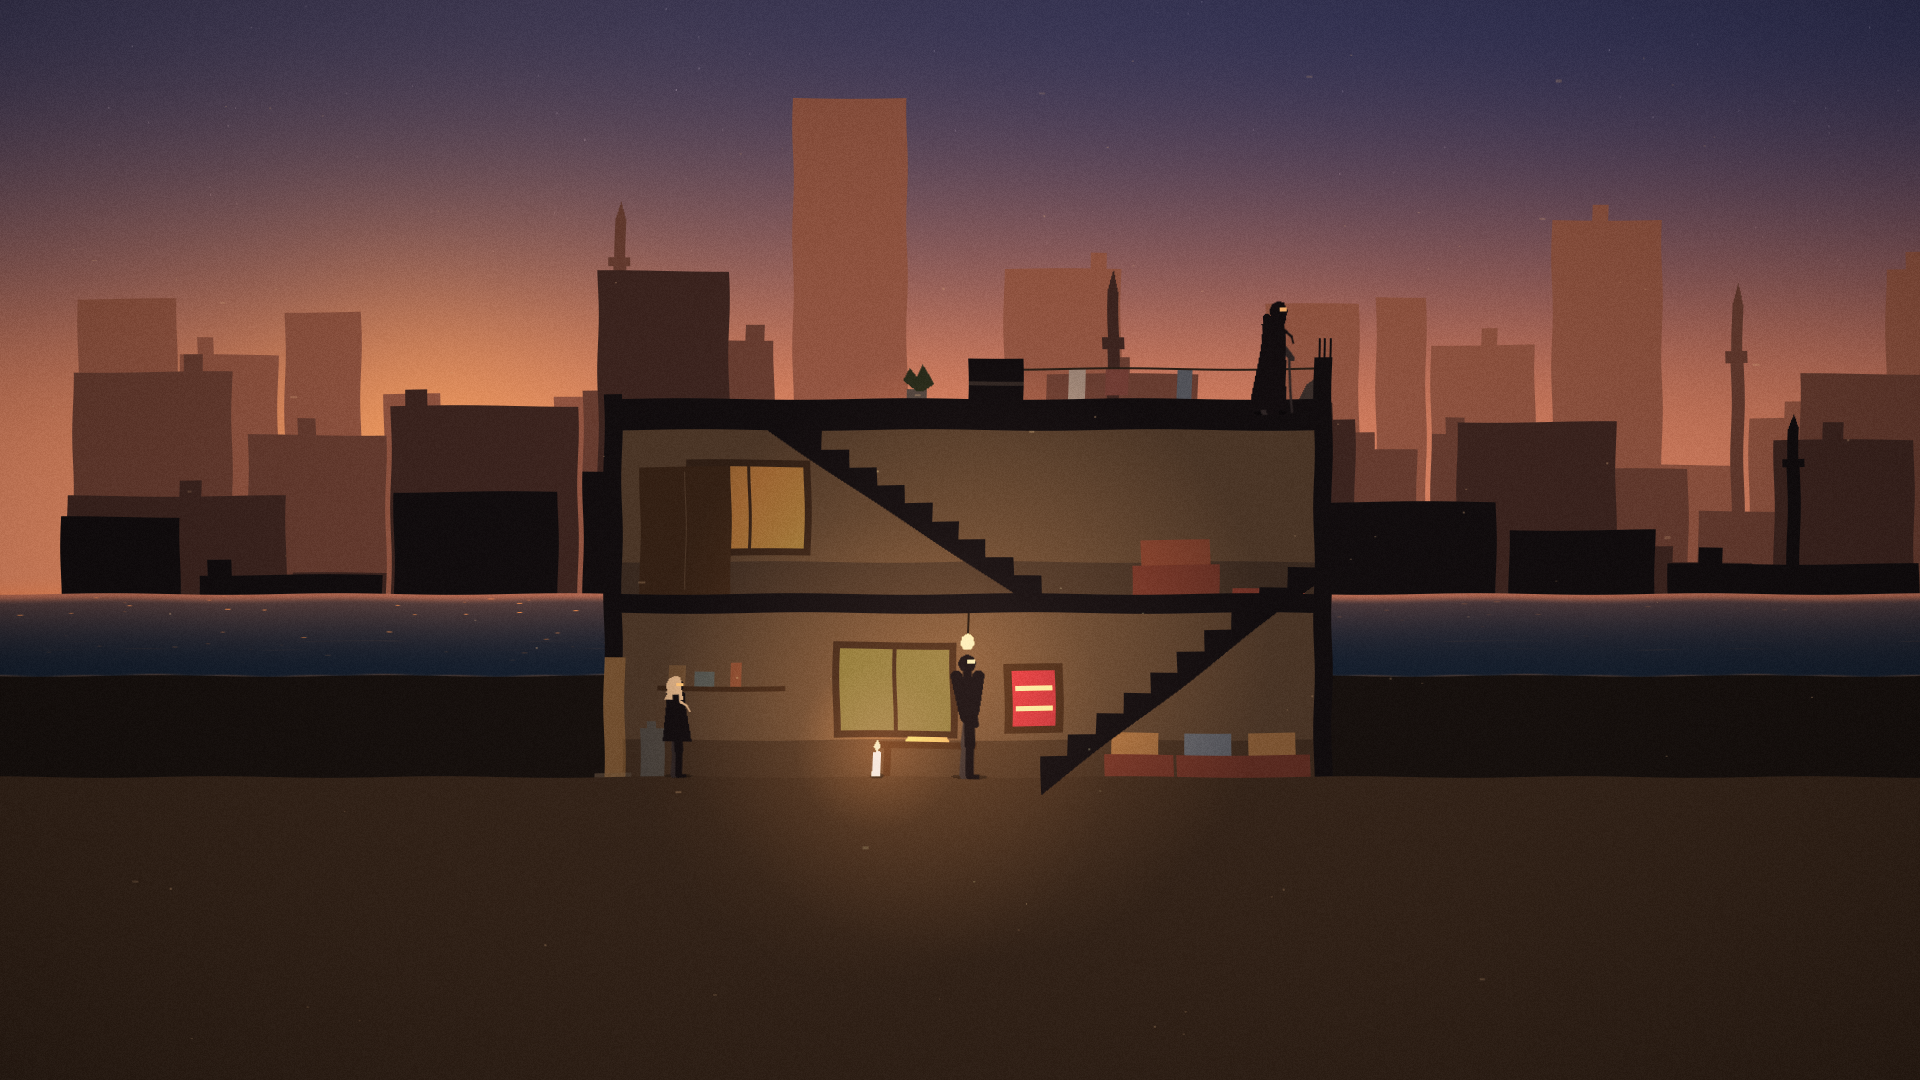
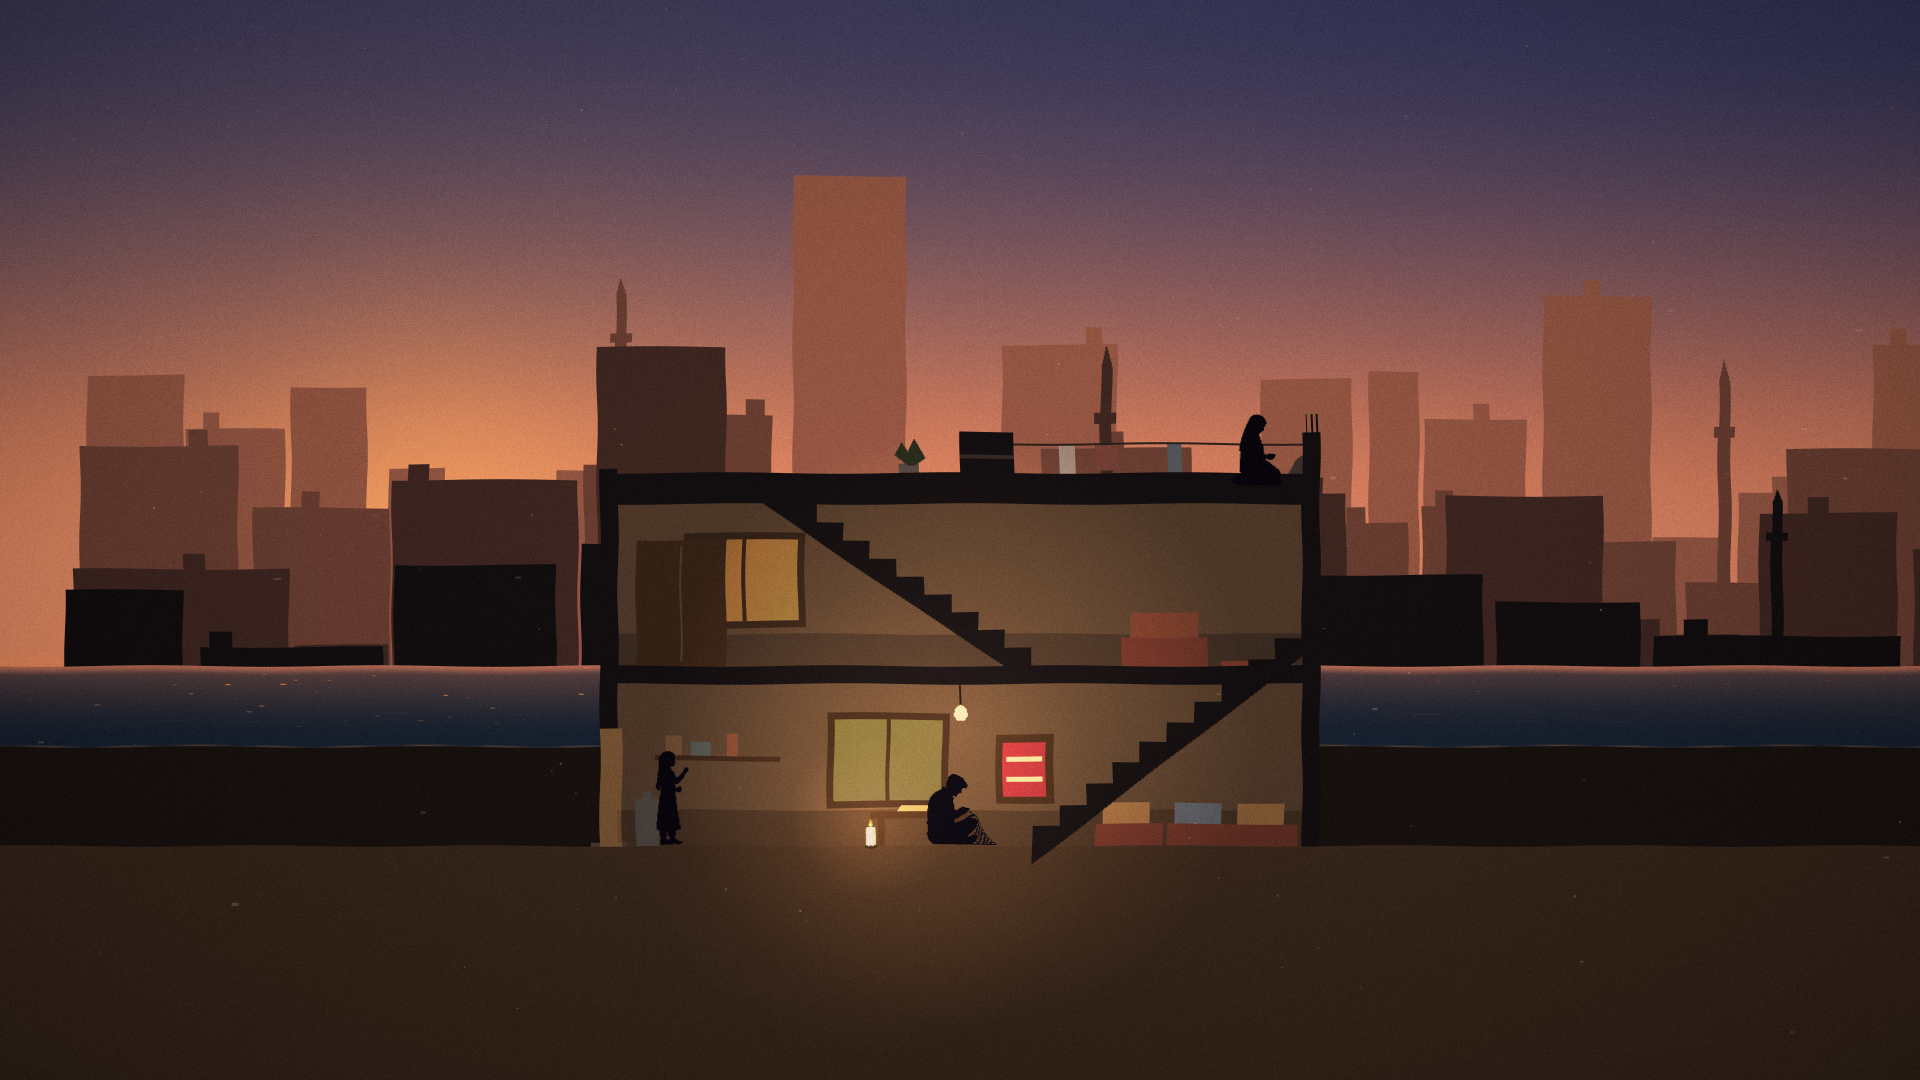
Docs: end-of-day handoff, decisions, lock F-03 in the playable, fresh shots
Claude-Session: https://claude.ai/code/session_01N9yTAvqhZsfR68yJs5Z1wT

diff --git a/docs/HANDOFF.md b/docs/HANDOFF.md
@@ -4,7 +4,11 @@ Where SUMUD stands on 30 September 2026, and how to pick it up in a new session 
 
 ## Where we are
 
-**Latest (1 October 2026, morning).** The founder allowed AI generation ("go ahead make it good"). The policy is flipped in `lock.md` (F-01 LOCKED, F-09 the limits), `art/direction.md`, `audio/direction.md` and `decisions.md`. All three style frames generated (`docs/art/style-frames/`, Canva media ids in `docs/art/prompts.md`) but only thumbnails reached the repo: the cloud environment's network policy denies `*.canva.com` and `fal.media`, so full-resolution generated files cannot be downloaded until the founder widens Network access in the environment settings. Done since: `tools/roto.py` (split a generated sheet, key frames to silhouettes, pack a strip) and `game/tools/build_frames.gd` (headless: strips to a `SpriteFrames` .tres per character plus `hands.json`), both tested on synthetic frames; `docs/art/prompts.md` logs every prompt. Character test: an image model produced Layla's model sheet and a clean 8-frame walk cycle on one baseline (`docs/art/characters/`, thumbnails), and `roto.py` keyed the walk thumbnail end to end, so the generated-frames route (art/direction method D) is viable once full files can be downloaded. `game/scripts/sprite_figure.gd` (`SpriteFigure extends Figure`) drives an `AnimatedSprite2D` from the same properties the player sets, keyed to `assets/characters/<name>/frames.tres` and `hands.json`, and falls back to bones when a character has no frames; `game/tests/test_sprites.tscn` covers it and runs in `check.sh`. **Layla walks on generated frames now:** `player.tscn`'s Visual is a `SpriteFigure` with `character = "layla"`; `game/assets/characters/layla/walk/` holds 8 keyed frames (316x571) and `frames.tres`. The frames came through without the network by a trick worth keeping: a Canva design (id `DAHWvaAkYqI`) gets one page per frame sized to the figure's box, the sheet media is placed on each page with a negative offset so the page window shows one frame, and `read-design` returns each page preview inline at 600 px on the long side, which `tools/roto.py key --lum 90` turns into silhouettes. Run (8), idle (7) and jump (6, bottom-aligned with `roto.py key --per-frame`) are in too, so Layla's idle, walk, run and jump are all generated frames; `frames.tres` holds the four. Note for the extraction trick: Canva sometimes returns a page's preview at a smaller pixel size than its siblings, so `roto.py key` now scales all input frames to the largest before keying. Crawl (6), kite-flying idle (`idle_kite`, 6), two-handed carry walk (`walk_twohand`, 8) and sit-down (5, plays once) are in as well: eight animations for Layla. Jump frames follow vertical speed (`Figure.vertical`, fed by the player): take-off, rise, apex, fall, and the landing frame while the squash lasts. Not yet: a heavy one-hand carry, climb, turn, and the walk variants while flying the kite. Sami (walk, idle), Teta (walk, seated idle with the key) and Baba (walk, net-mending seated idle) are in; `npc.gd` now builds a `SpriteFigure` named after the NPC (`character` export, default the name in lower case), and `player.gd` has a `character` export so the Baba player in `home.tscn` uses Baba's frames. Each animation carries a `stand_ratio` in `strip.json` → `meta.json` (crawl 0.5, seated 0.62 to 0.68, kite idle 1.12) because every generated sheet has its own scale. Mama (walk, list-reading idle) and Karim (walk, phone idle) are in through the second Canva design `DAHWvbZwfac` (the first, `DAHWvaAkYqI`, hit Canva's 100-page limit); `roto.py key --solid` fills enclosed holes (Mama's bag had grey detail). The whole Day 1 cast has frames: Layla (8 animations), Sami, Teta, Baba, Mama, Karim, Abu Ahmad (walk and idle each; Teta and Baba seated). NPC folder names are the NPC name in lower case with spaces as underscores (`abu_ahmad`); any NPC without a folder still draws bones. `roto.py key --erase x0,y0,x1,y1` blanks a region before keying (used to cut the doorway the model drew behind Abu Ahmad). His walk windows were cut on uniform spacing, so the bread tray may be clipped at a frame edge; regenerate with wider pages if it shows. Full `check.sh` was green after the cast switch. **Sound and video generation:** Figma Weave's models (CassetteAI sound effects, Veo) answer that MCP runs need a paid Weave plan, so until the founder upgrades or supplies generated sounds themselves, audio stays synthesised or recorded. Feel pass done in `player.gd`, `camera_rig.gd`, `figure.gd` (coyote 0.1 s, buffer 0.1 s, variable jump with a 0.45 cut, skid, accel 4000/decel 5400, impact-scaled landing with a `landed` signal, smoothed camera lead with an edge clamp, F3 tuning overlay); two bots now hold jump instead of tapping it, because a tap is a hop by design. Values in `docs/design/feel-and-readability.md`. Next: the other two style frames, Layla's model sheet and sprite frames, textures and hero props, generated foley.
+**Latest (1 October 2026, end of day).** The founder allowed AI generation; the whole Day 1 cast and the beach's hero props are now generated images in the playable, and `tools/check.sh` is green at every commit. What changed today, in order of the commits: the AI policy flipped in the docs (lock F-01 LOCKED, F-09 the limits); `tools/roto.py` and `game/tools/build_frames.gd` (generated sheet → keyed frames → `SpriteFrames`); `scripts/sprite_figure.gd` driving `AnimatedSprite2D` from the same properties the bone rig used; the feel pass (coyote, buffer, variable jump, skid, impact landing, camera lead, F3 overlay); Layla with eight animations, then Sami, Teta, Baba, Mama, Karim and Abu Ahmad with walk and idle; the beach's hasaka, kiosk, a sky of 110 generated kites and a generated sail on the player's kite; the carried items as pictures; the bakery front behind the night street's oven. Fresh renders through `main.tscn`: `docs/shots/beach_start_sprites.png`, `docs/shots/home_dusk.png`. The design document says the same (rev 85, mirrored in `docs/gdd.md`).
+
+**How generated images reach the repo without network access** (the trick every later agent needs): the container cannot download from Canva, but Canva's `read-design` returns page previews inline at 600 px on the long side. So: generate the image (`generate-image`), open a scratch design (`DAHWvaAkYqI` is full at 100 pages; `DAHWvbZwfac` has room), add one page per frame sized to that frame's box, `insert_fill` the generated media onto each page with a negative offset so the page window shows one frame, `read-design` with `thumbnail_pages` to receive the previews, save them under `/tmp`, and run `tools/roto.py key` (silhouettes) or `key --key d9d9d9` (coloured props) then `strip`, then `build_frames.gd`. Frame geometry comes from the 200 px thumbnail the generate call returns (`docs/art/prompts.md` keeps every prompt; the page-window numbers are in this session's history but are quick to recompute). A real export route (network allowance for `*.canva.com`, or the founder downloading the media by id and committing) would give 1776 px frames instead of 600 px ones; everything is swappable by path.
+
+**Still generated by code:** the world (skies, sea, skyline, facades, home interior, ground), the kite string and tail, the tatreez, every sound. **Still bones:** any NPC without a frames folder (the twins, Hajja Amina and the rest of Day 1's cast when they are added). **Not possible from here:** generated audio (Figma Weave needs a paid plan; Canva has no audio), so foley and ambience stay synthesised until the founder records or generates them.
 
 **Stage: pre-production lock** (30 September to 13 October 2026). The first playable (a Day 1 sampler) is done and the founder has played it on Windows. Their verdict: "if my dream is v2.0, this is v0.2" — characters wooden, scarf and eyes weird, walk and jump weird, story dead, gameplay dry, cuts sudden, sounds weird. They asked to lock everything that cannot change before real production, and said yes to moving the launch date for quality. The plan: lock, then Day 1 as a vertical slice at shipping quality, then Day 3, then production (`docs/production/pipeline.md`).
 

diff --git a/docs/production/lock.md b/docs/production/lock.md
@@ -77,7 +77,7 @@ Everything that cannot change once production starts, in one list. Production st
 | F-01 | AI generation | Allowed for art, textures, props, animation frames, sound effects, ambience and reference, under F-09 (founder, 1 October 2026) | LOCKED (1 Oct) | P0 | Founder | decisions |
 | F-09 | Limits on AI generation | Never for Quran (text, or a licensed human reciter); never music or anything that imitates an instrument (E-01); never prompted on, trained on or traced from footage, photographs or likenesses of real Gazans or real victims; every generated asset is reviewed in-engine by the founder, culturally by the readers, and gets a `docs/rights.md` row naming the model; disclosed on Steam's AI content survey and on the store page as "some art and sound were made with generative AI tools and reviewed by people"; voices for characters only after the scholar's view on synthetic voices (G-02 to G-04) | PROPOSED | P0 | Founder, readers, scholar | art/direction |
 | F-02 | Art base | Silhouettes with colour carried by light | LOCKED | P0 | Founder | decisions |
-| F-03 | Character method | Chosen by the animation test: AI-generated silhouette frames (image model) now the first candidate, rotoscoped performance second, an artist's cut-out rig third | OPEN (test) | P0 | Founder | art/direction |
+| F-03 | Character method | Generated silhouette frames (image model) are in the playable for the whole Day 1 cast as of 1 October; the founder confirms by playing, or asks for the rotoscope or cut-out alternatives | PROPOSED (in the playable) | P0 | Founder | art/direction |
 | F-04 | An artist | Recruit one; credit above the fold; terms by the founder | OPEN | P0 | Founder | art/artist-brief |
 | F-05 | Faces and eyes | No eye-lights; profile and rim light | PROPOSED | P0 | Founder (style frames) | art/direction |
 | F-06 | Layla's headscarf | Designed on the model sheet; custom and colour from the readers; colour in silhouette decided on the style frames | OPEN | P0 | Founder, readers | art/direction |

diff --git a/docs/gdd.md b/docs/gdd.md
@@ -141,7 +141,7 @@ The look is layered silhouettes lit by scarce, warm light, Palestinian embroider
 
 **Camera and format.** Side view with depth, 16:9 at 1920 by 1080, scaling to 4K, letterboxed for cinematic beats, Steam Deck legibility checked at 1280 by 800.
 
-**Production of assets.** The world (skies, sea, skyline, buildings, the grade, tatreez) stays generated by code, versioned and regenerated on demand. People are made by people: characters by rotoscoped performance or an artist's cut-out rig, chosen by an animation test in the lock; hero props drawn by hand; voices, foley and ambience recorded. No generative AI is used for any asset, placeholder, reference given to a collaborator, or marketing image (`docs/art/direction.md`, `docs/audio/direction.md`).
+**Production of assets.** The world (skies, sea, skyline, buildings, the grade, tatreez) stays generated by code, versioned and regenerated on demand. People are made by people: characters by rotoscoped performance or an artist's cut-out rig, chosen by an animation test in the lock; hero props drawn by hand; voices, foley and ambience recorded. From 1 October 2026 generative image models are used for characters' frames, props and reference, under the limits in `docs/production/lock.md` F-09 (never Quran, never music, nothing from real Gazans' footage or likeness, every asset reviewed and listed in `docs/rights.md`, disclosed on Steam); generated sound waits on a route the project can reach (`docs/art/direction.md`, `docs/audio/direction.md`).
 
 ## Audio: a score made only of voices
 

diff --git a/docs/decisions.md b/docs/decisions.md
@@ -36,3 +36,5 @@ Founder decisions, with the date. The design document holds the reasoning; this 
 | 2026-09-30 | The repository's `docs/` is the source of truth for any agent; the Claude Doc is the founder's reading copy | lock K-06 |
 | 2026-10-01 | AI generation allowed for art, textures, props, animation frames, sound effects and ambience ("ai generation allowed, go ahead make it good"); reverses the 30 September rule | lock F-01; limits proposed in F-09: no AI Quran, no AI music, nothing from real Gazans' footage or likeness, review, rights rows, Steam disclosure |
 | 2026-10-01 | Commit after every batch and update HANDOFF.md in the same commit, so the project can be handed to another agent at any time | founder's instruction |
+| 2026-10-01 | The playable's characters and hero props are generated images extracted through Canva previews and keyed by tools/roto.py; the bone rig stays as the fallback for anyone without frames | lock F-03 still PROPOSED for the founder to confirm by playing; method D in docs/art/direction.md |
+
